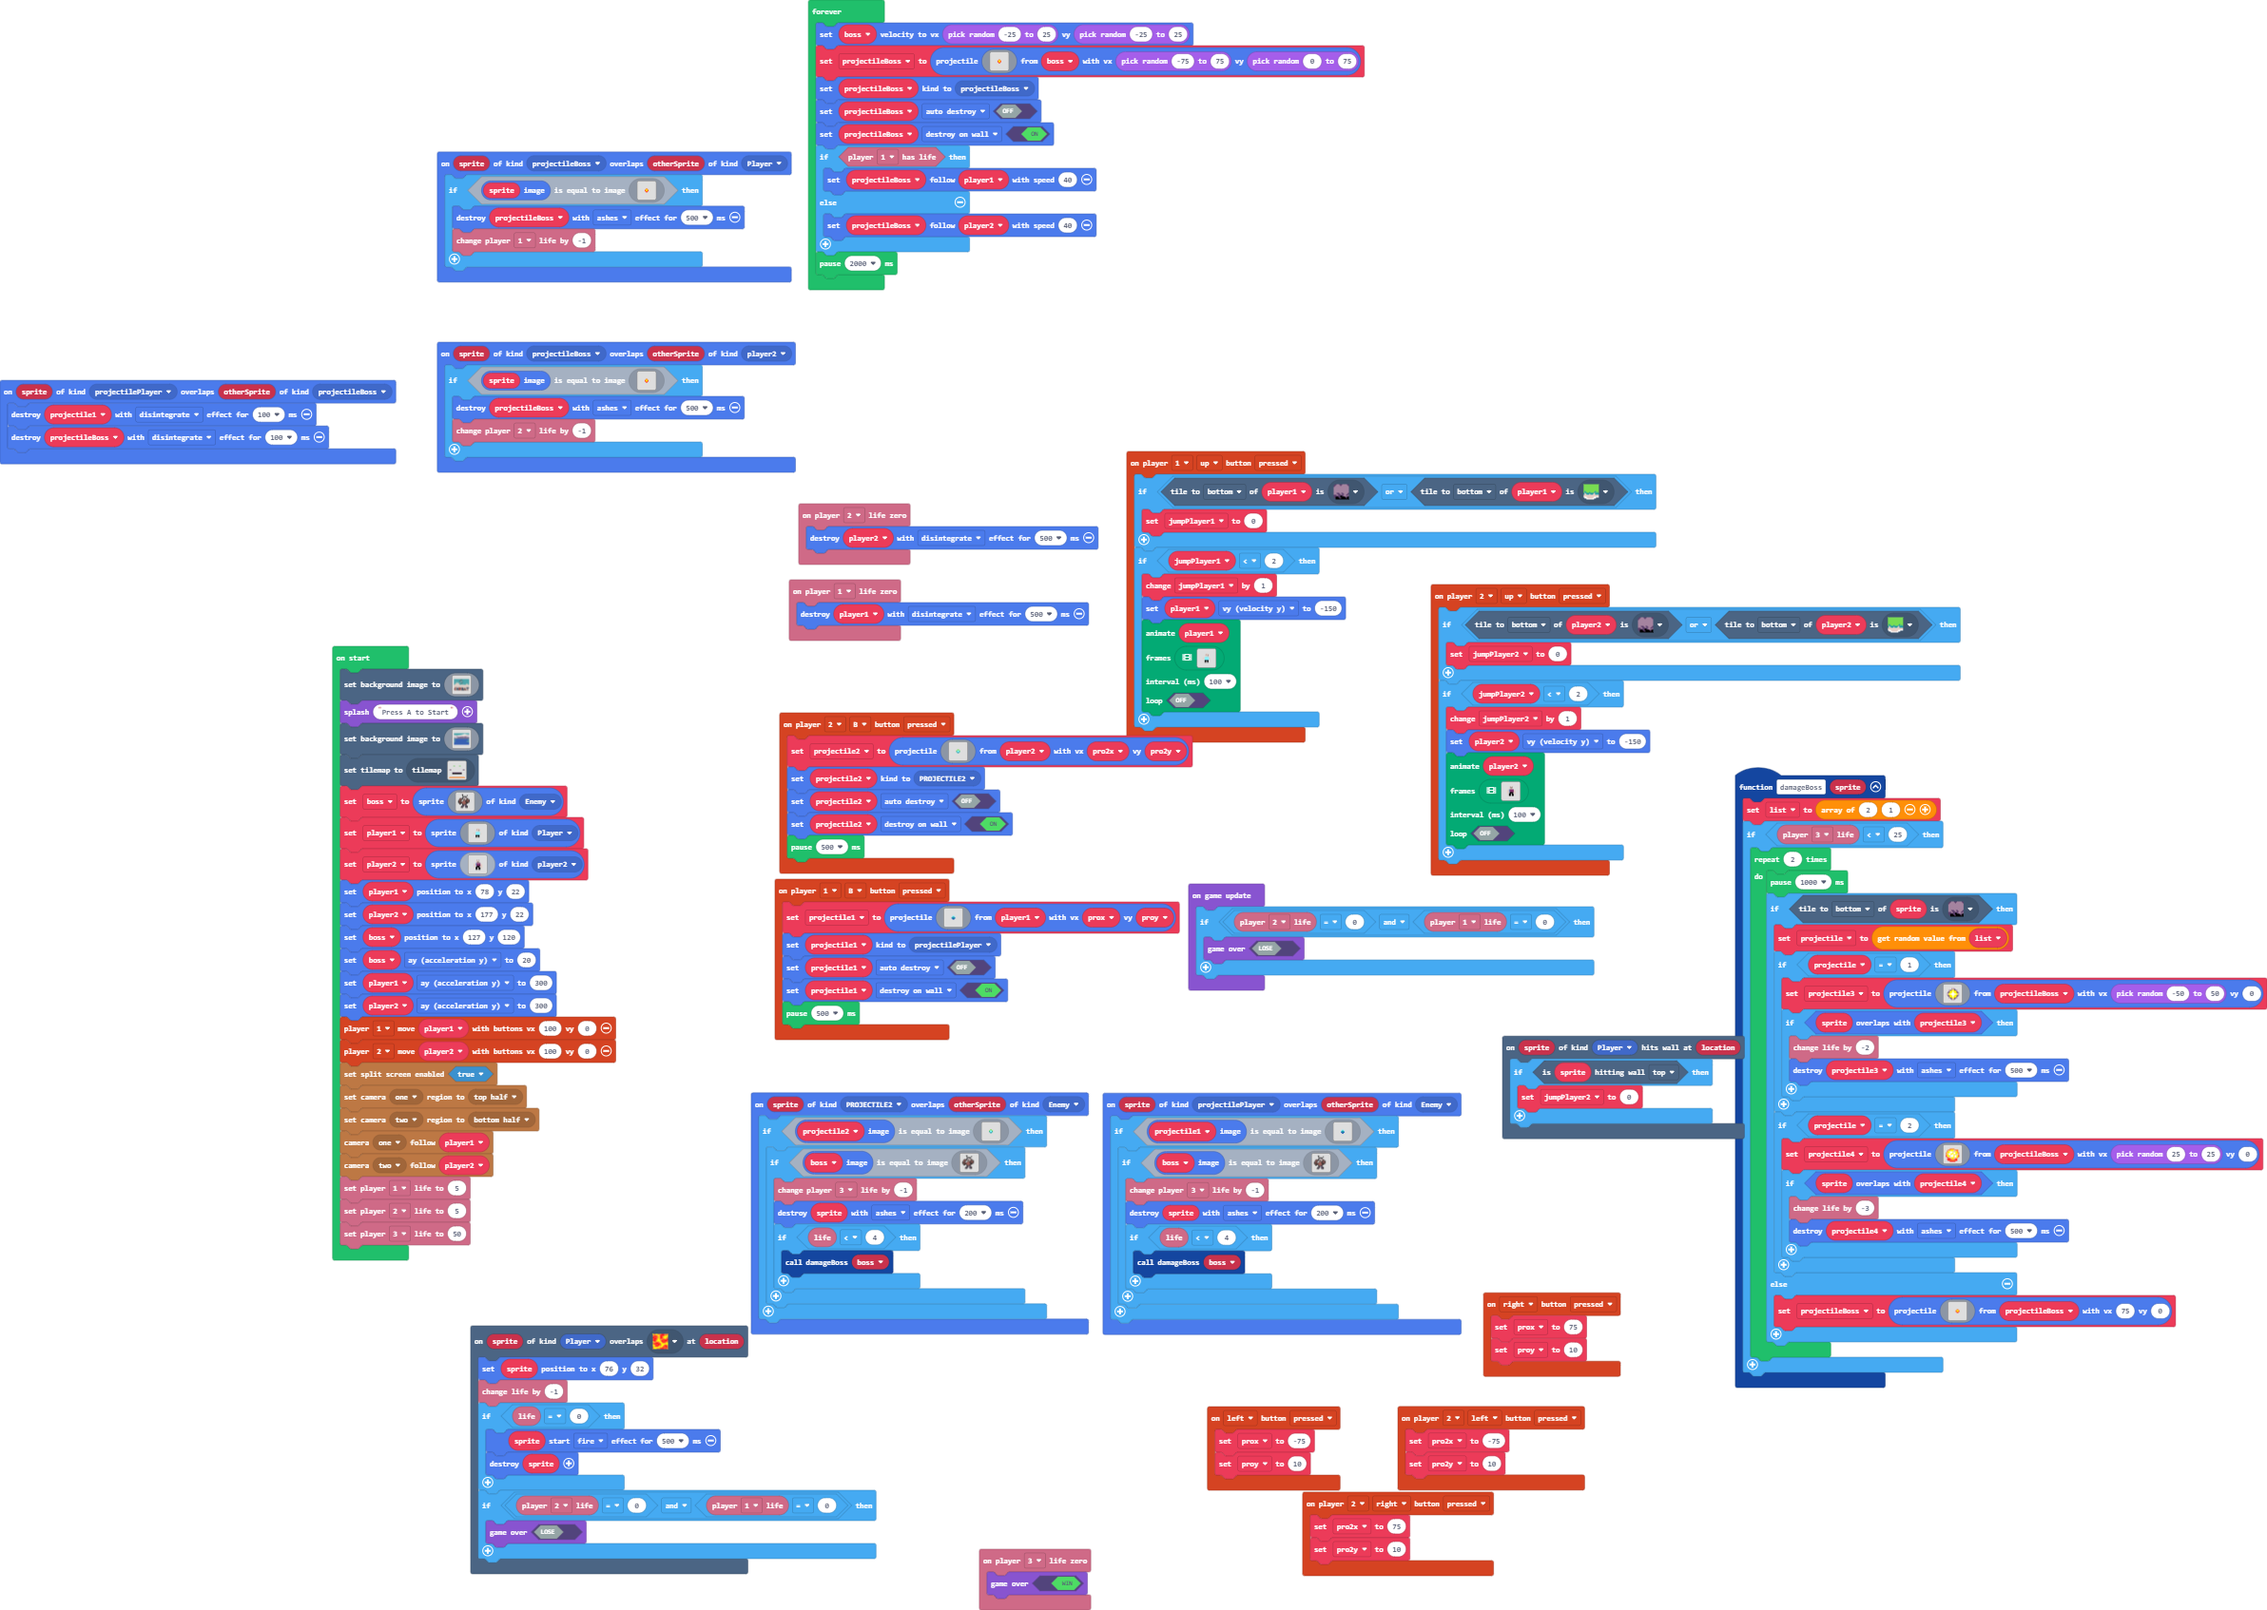
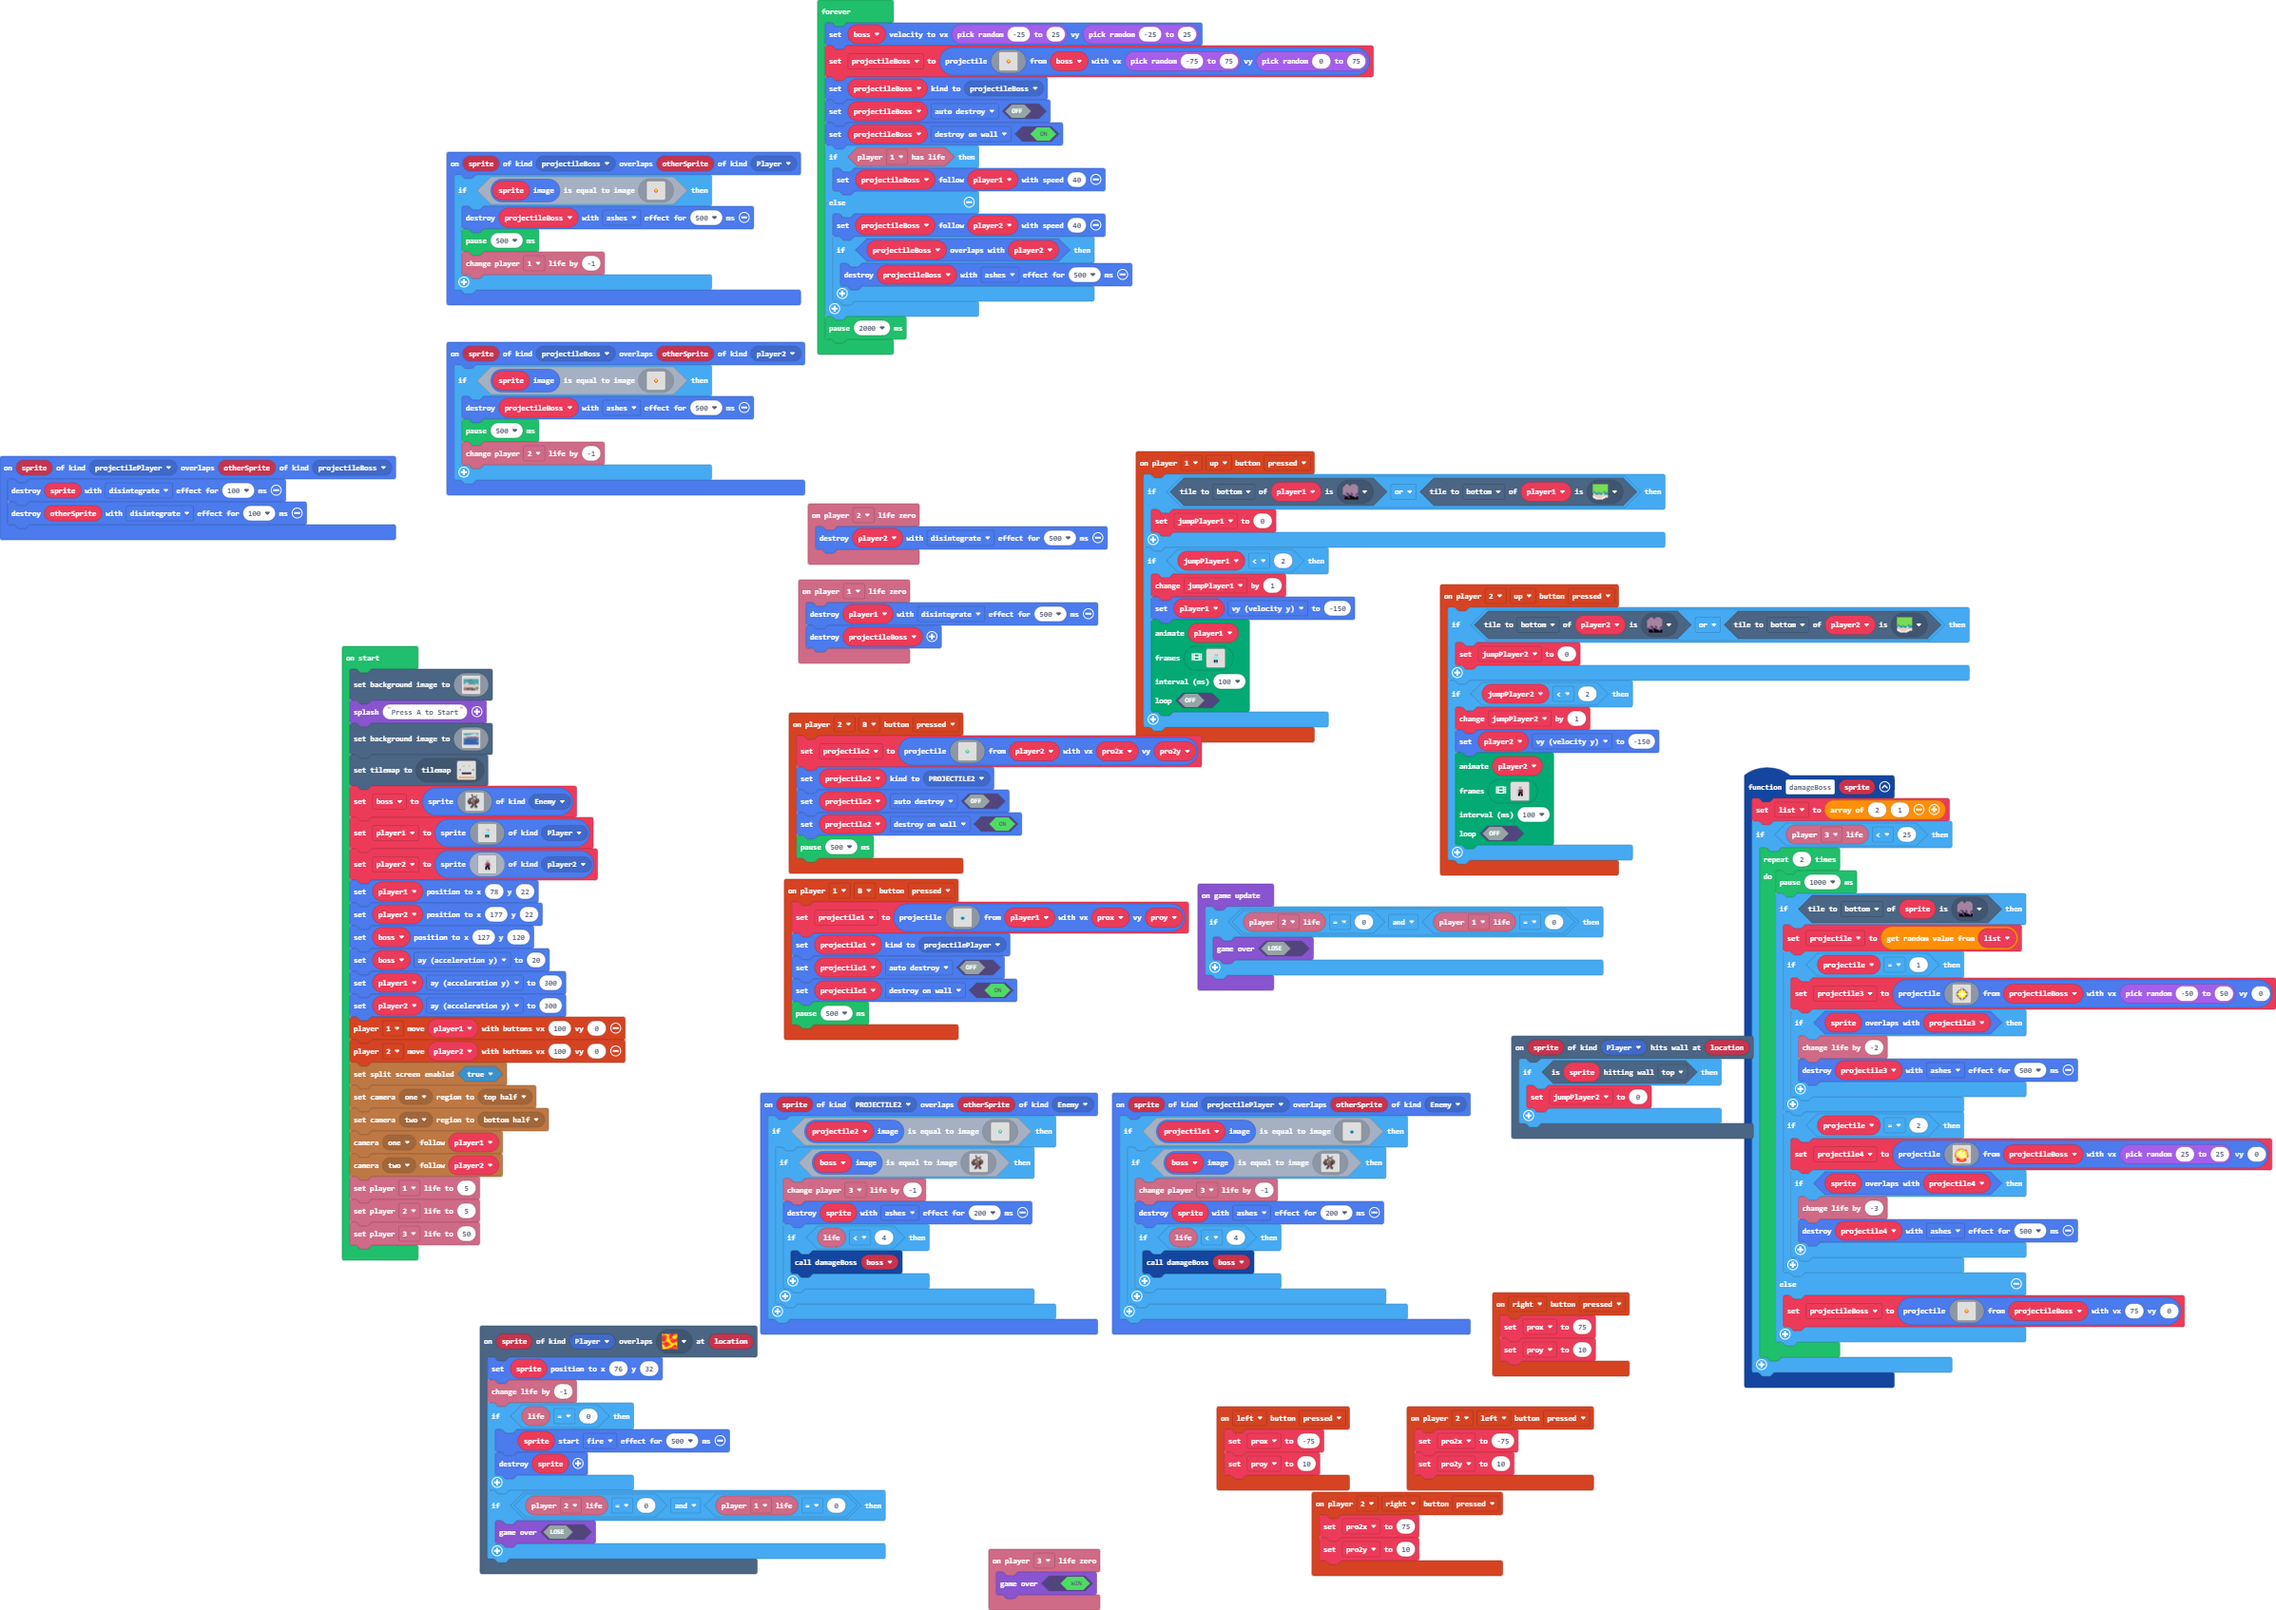
Update main.blocks, main.ts

diff --git a/main.ts b/main.ts
@@ -53,6 +53,7 @@ sprites.onOverlap(SpriteKind.projectileBoss, SpriteKind.Player, function (sprite
         . . . . . . . . . . . . . . . . 
         `)) {
         sprites.destroy(projectileBoss, effects.ashes, 500)
+        pause(500)
         info.player1.changeLifeBy(-1)
     }
 })
@@ -256,6 +257,7 @@ sprites.onOverlap(SpriteKind.projectileBoss, SpriteKind.player2, function (sprit
         . . . . . . . . . . . . . . . . 
         `)) {
         sprites.destroy(projectileBoss, effects.ashes, 500)
+        pause(500)
         info.player2.changeLifeBy(-1)
     }
 })
@@ -687,6 +689,7 @@ controller.player2.onButtonEvent(ControllerButton.Left, ControllerButtonEvent.Pr
 })
 info.player1.onLifeZero(function () {
     sprites.destroy(player1, effects.disintegrate, 500)
+    sprites.destroy(projectileBoss)
 })
 info.player2.onLifeZero(function () {
     sprites.destroy(player2, effects.disintegrate, 500)
@@ -716,8 +719,8 @@ controller.player1.onButtonEvent(ControllerButton.B, ControllerButtonEvent.Press
     pause(500)
 })
 sprites.onOverlap(SpriteKind.projectilePlayer, SpriteKind.projectileBoss, function (sprite, otherSprite) {
-    sprites.destroy(projectile1, effects.disintegrate, 100)
-    sprites.destroy(projectileBoss, effects.disintegrate, 100)
+    sprites.destroy(sprite, effects.disintegrate, 100)
+    sprites.destroy(otherSprite, effects.disintegrate, 100)
 })
 let projectile4: Sprite = null
 let projectile3: Sprite = null
@@ -1139,6 +1142,9 @@ forever(function () {
         projectileBoss.follow(player1, 40)
     } else {
         projectileBoss.follow(player2, 40)
+        if (projectileBoss.overlapsWith(player2)) {
+            sprites.destroy(projectileBoss, effects.ashes, 500)
+        }
     }
     pause(2000)
 })
